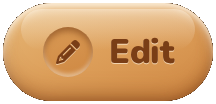
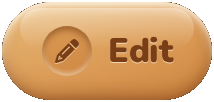
Fix clay modal buttons rendering.
- Remove remaining dark-background pixels from modal button PNGs
- Ensure Event Detail Edit/Delete CSS uses clay images (override duplicate styles) and correct sizing

diff --git a/src/index.tsx b/src/index.tsx
@@ -2467,9 +2467,9 @@ app.get('/', (c) => {
           }
 
           .event-detail-btn-edit {
-            width: 216px;
+            width: 92px;
             height: 44px;
-            background-image: url('/static/images/buttons/edit.png');
+            background-image: url('/static/images/buttons/edit.png') !important;
             background-repeat: no-repeat;
             background-position: center;
             background-size: contain;
@@ -2481,9 +2481,9 @@ app.get('/', (c) => {
           }
 
           .event-detail-btn-delete {
-            width: 259px;
+            width: 111px;
             height: 44px;
-            background-image: url('/static/images/buttons/delete.png');
+            background-image: url('/static/images/buttons/delete.png') !important;
             background-repeat: no-repeat;
             background-position: center;
             background-size: contain;
@@ -3587,10 +3587,14 @@ app.get('/', (c) => {
           }
 
           .event-detail-btn {
-            padding: 10px 18px;
-            border-radius: 12px;
+            padding: 0 !important;
+            border-radius: 999px !important;
+            border: 0 !important;
+            background: transparent !important;
+            box-shadow: none !important;
             font-size: 14px;
-            transition: transform 0.2s ease, box-shadow 0.2s ease, background 0.2s ease;
+            line-height: 0;
+            transition: transform 0.2s ease, filter 0.2s ease;
           }
 
           .event-detail-btn:hover {
@@ -3598,19 +3602,27 @@ app.get('/', (c) => {
           }
 
           .event-detail-btn-edit {
-            background: var(--ncpa-amber);
-            color: var(--ncpa-text-dark);
-            box-shadow: 0 10px 25px rgba(224,164,88,0.20);
+            width: 92px;
+            height: 44px;
+            background-image: url('/static/images/buttons/edit.png') !important;
+            background-repeat: no-repeat;
+            background-position: center;
+            background-size: contain;
+            color: transparent;
           }
 
           .event-detail-btn-delete {
-            background: rgba(199,91,57,0.14);
-            color: #F3C9B8;
-            border-color: rgba(199,91,57,0.45);
+            width: 111px;
+            height: 44px;
+            background-image: url('/static/images/buttons/delete.png') !important;
+            background-repeat: no-repeat;
+            background-position: center;
+            background-size: contain;
+            color: transparent;
           }
 
           .event-detail-btn-delete:hover {
-            background: rgba(199,91,57,0.22);
+            filter: brightness(1.03);
           }
 
           #editEventModal .modal-content {
